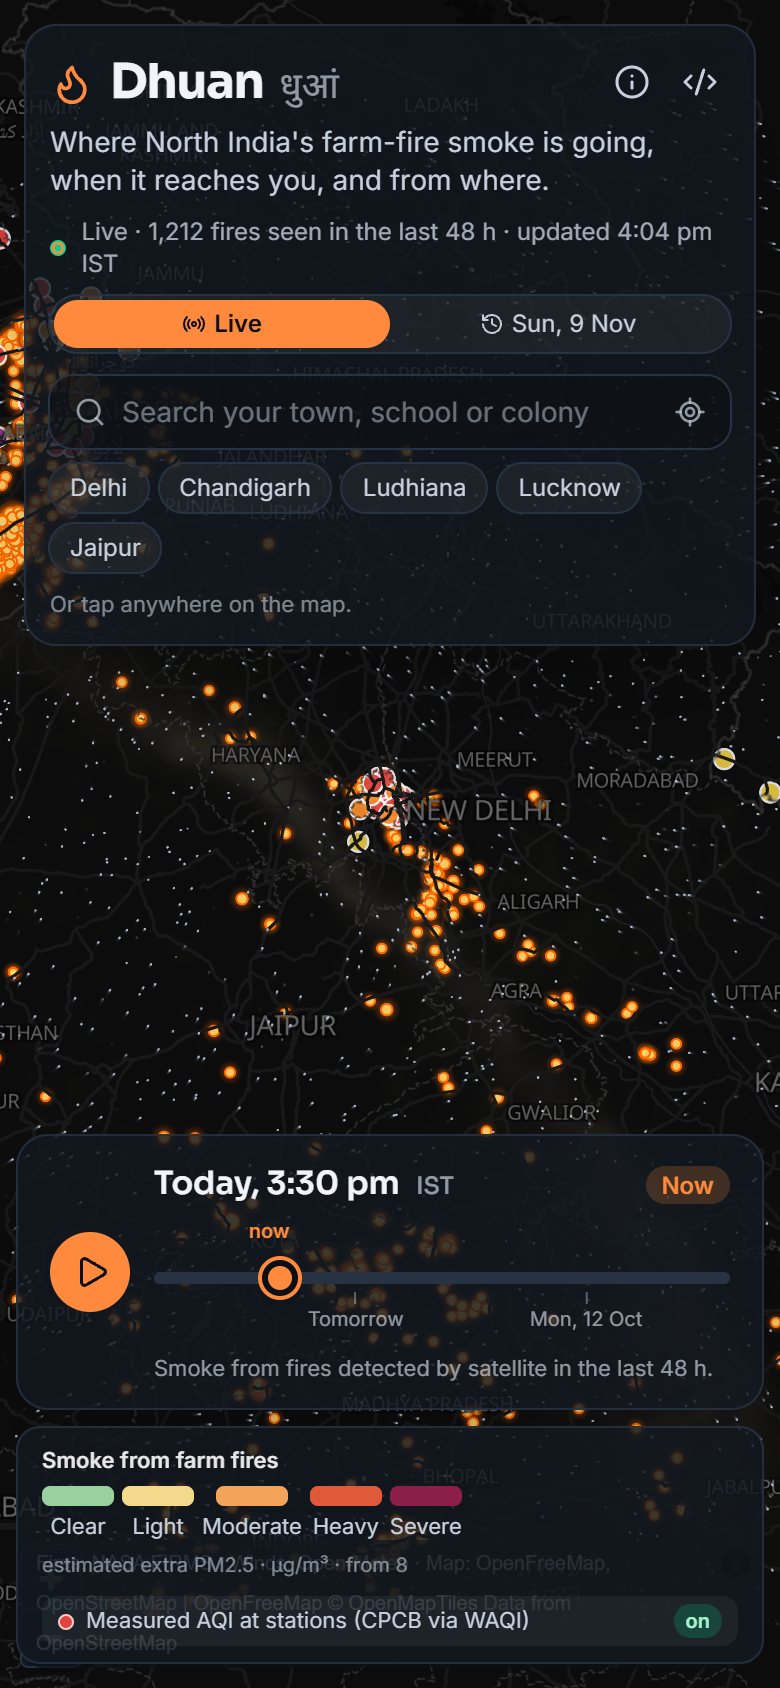
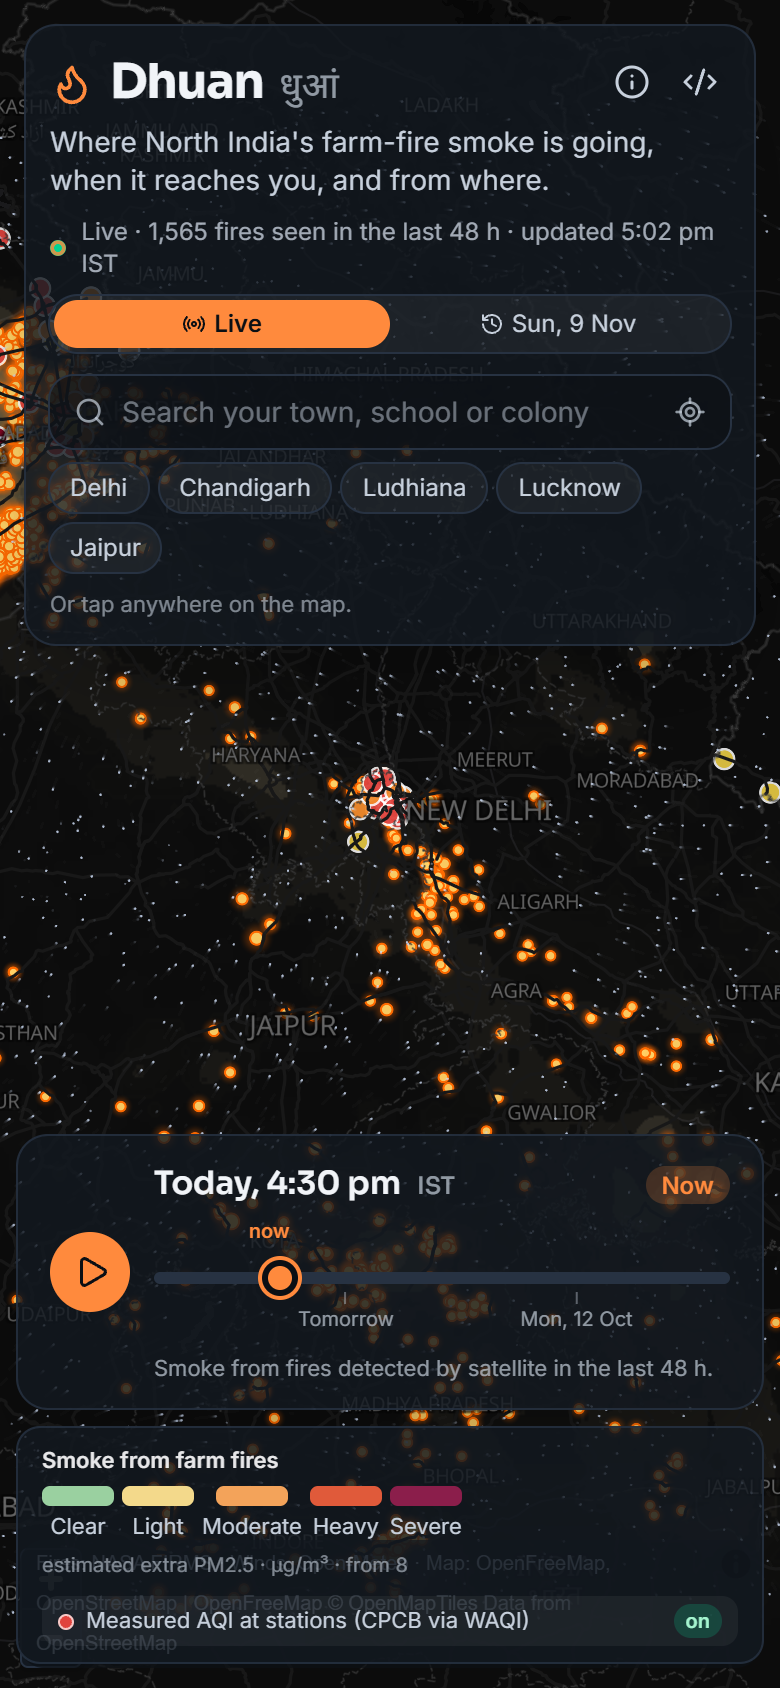
Operations and impact: district exposure, CloudWatch metrics/dashboard/alarms, budget, throttling
- Count Indian districts under moderate/heavy smoke per frame; header outlook and timeline show it
- Custom CloudWatch metrics each run, a dashboard, alarms for failed or stalled runs, a monthly budget (AlertEmail)
- API Gateway throttling and a subscriber cap, since subscribing creates SNS topics
- Loading indicator while the basemap starts; play button labelled

diff --git a/frontend/src/App.tsx b/frontend/src/App.tsx
@@ -7,7 +7,7 @@ import PlacePanel from './components/PlacePanel'
 import Search from './components/Search'
 import SmokeMap from './components/SmokeMap'
 import Timeline from './components/Timeline'
-import { formatCount, istDay, istTime } from './format'
+import { formatCount, istDay, istTime, relativeDay } from './format'
 
 const REPO = 'https://github.com/HitanshGithub/dhuan'
 
@@ -133,6 +133,11 @@ export default function App() {
   return (
     <div className="relative h-full w-full overflow-hidden bg-ink">
       <SmokeMap meta={meta} frame={frame} place={place} onPick={pick} showStations={showStations} onFail={setMapError} onReady={() => setMapReady(true)} />
+      {!mapReady && !mapError && (
+        <div className="glass pointer-events-none absolute left-1/2 top-1/2 z-10 -translate-x-1/2 -translate-y-1/2 rounded-full px-4 py-2 text-sm text-mist">
+          Loading the map…
+        </div>
+      )}
       {mapError && (
         <div className="absolute left-1/2 top-1/2 z-10 w-[min(440px,calc(100%-32px))] -translate-x-1/2 -translate-y-1/2">
           <div className="glass rounded-2xl p-4 text-sm leading-relaxed text-mist shadow-2xl">
@@ -183,6 +188,7 @@ export default function App() {
                 Replay · {istDay(meta.times[meta.now_frame])} · {formatCount(meta.fires.count)} fires in 48 h · archived fires and winds, same model
               </div>
             )}
+            {meta?.exposure && <Outlook meta={meta} onFrame={setFrame} />}
             {metaError && <div className="mt-2 rounded-lg bg-red-500/10 px-2 py-1 text-xs text-red-200">No forecast yet: {metaError}</div>}
             {replays.length > 0 && liveMeta && (
               <div className="mt-2 flex rounded-full bg-white/5 p-0.5 text-xs ring-1 ring-line">
@@ -244,5 +250,31 @@ export default function App() {
 
       {about && <About meta={meta} onClose={() => setAbout(false)} />}
     </div>
+  )
+}
+
+/** The next 24 hours in one line: how many Indian districts sit under moderate or heavy farm-fire smoke, and when. */
+function Outlook({ meta, onFrame }: { meta: RunMeta; onFrame: (f: number) => void }) {
+  const ex = meta.exposure!
+  const peak = ex.next_24h
+  const nowIso = meta.times[meta.now_frame]
+  const when = `${relativeDay(meta.times[peak.frame], nowIso).toLowerCase()} ${istTime(meta.times[peak.frame])}`
+  if (peak.heavy === 0 && peak.moderate === 0) {
+    return <div className="mt-2 text-xs text-mist/70">Next 24 h: no district expected to see moderate or heavy farm-fire smoke.</div>
+  }
+  const worst = peak.districts
+    .slice(0, 3)
+    .map((d) => d.name.split(',')[0])
+    .join(', ')
+  return (
+    <button onClick={() => onFrame(peak.frame)} className="mt-2 flex w-full items-start gap-2 rounded-lg bg-white/5 px-2 py-1.5 text-left text-xs text-mist ring-1 ring-line hover:bg-white/10" title="Jump to that hour">
+      <span className="mt-1 inline-block h-2 w-2 shrink-0 rounded-full" style={{ background: peak.heavy > 0 ? '#e05a3a' : '#f3a35a' }} />
+      <span>
+        <span className="font-semibold text-white">
+          {peak.heavy > 0 ? `Heavy smoke over ${peak.heavy} districts` : `Moderate smoke over ${peak.moderate} districts`}
+        </span>{' '}
+        around {when}{peak.heavy > 0 && peak.moderate > peak.heavy ? `, moderate over ${peak.moderate}` : ''}. Worst: {worst}.
+      </span>
+    </button>
   )
 }

diff --git a/frontend/src/components/Timeline.tsx b/frontend/src/components/Timeline.tsx
@@ -23,17 +23,27 @@ export default function Timeline({ meta, frame, playing, onFrame, onPlay }: Prop
   })
   const pct = (i: number) => `${(i / (n - 1)) * 100}%`
   const assumed = isFuture && frame - meta.now_frame > 12 && meta.fires.assumed_repeat > 0
+  const ex = meta.exposure?.frames[frame]
+  const exposureText = !ex || (ex.heavy === 0 && ex.moderate === 0)
+    ? null
+    : ex.heavy > 0
+      ? `Heavy smoke over ${ex.heavy} district${ex.heavy === 1 ? '' : 's'}${ex.moderate > ex.heavy ? `, moderate over ${ex.moderate}` : ''}`
+      : `Moderate smoke over ${ex.moderate} district${ex.moderate === 1 ? '' : 's'}`
 
   return (
     <div className="glass rounded-2xl px-4 pt-3 pb-3 shadow-2xl">
       <div className="flex items-center gap-3">
-        <button
-          onClick={() => onPlay(!playing)}
-          className="grid h-10 w-10 shrink-0 place-items-center rounded-full bg-ember text-ink transition hover:brightness-110 active:scale-95"
-          aria-label={playing ? 'Pause' : 'Play the next 48 hours'}
-        >
-          {playing ? <Pause size={18} /> : <Play size={18} className="ml-0.5" />}
-        </button>
+        <div className="flex shrink-0 flex-col items-center">
+          <button
+            onClick={() => onPlay(!playing)}
+            className="grid h-10 w-10 place-items-center rounded-full bg-ember text-ink transition hover:brightness-110 active:scale-95"
+            aria-label={playing ? 'Pause' : 'Play the next 48 hours'}
+            title={playing ? 'Pause' : 'Play the next 48 hours'}
+          >
+            {playing ? <Pause size={18} /> : <Play size={18} className="ml-0.5" />}
+          </button>
+          <span className="mt-1 text-[10px] text-mist/60">{playing ? 'pause' : 'play 48 h'}</span>
+        </div>
         <div className="min-w-0 flex-1">
           <div className="flex items-baseline justify-between gap-2">
             <div className="truncate font-display text-base font-semibold sm:text-lg">
@@ -50,6 +60,12 @@ export default function Timeline({ meta, frame, playing, onFrame, onPlay }: Prop
               )}
             </div>
           </div>
+          {exposureText && (
+            <div className="mt-0.5 flex items-center gap-1.5 text-xs text-mist">
+              <span className="inline-block h-2 w-2 rounded-full" style={{ background: ex!.heavy > 0 ? '#e05a3a' : '#f3a35a' }} />
+              {exposureText}
+            </div>
+          )}
           <div className="relative mt-5">
             <span className="pointer-events-none absolute -top-4 -translate-x-1/2 text-[10px] font-semibold text-ember" style={{ left: pct(meta.now_frame) }}>
               now

diff --git a/frontend/src/api.ts b/frontend/src/api.ts
@@ -26,6 +26,11 @@ export interface RunMeta {
   sources: Record<string, string | null>
   has_stations?: boolean
   replay?: { date: string; title: string } | null
+  exposure?: {
+    frames: { heavy: number; moderate: number }[]
+    next_24h: { frame: number; heavy: number; moderate: number; districts: { name: string; ug: number }[] }
+    thresholds: { moderate: number; heavy: number }
+  }
 }
 
 export interface Replay {

diff --git a/backend/dhuan/run.py b/backend/dhuan/run.py
@@ -106,6 +106,7 @@ def step_simulate(run_id: str, store=None, now: datetime | None = None, set_late
     for f in fires:
         state = districts.names[f.district]["state"] if f.district >= 0 else "Outside India"
         by_state[state] = by_state.get(state, 0) + 1
+    exposed = exposure(ug, districts, sim.now_frame)
     meta = {
         "run_id": run_id,
         "generated_at": datetime.now(timezone.utc).isoformat(timespec="seconds"),
@@ -117,6 +118,7 @@ def step_simulate(run_id: str, store=None, now: datetime | None = None, set_late
                   "window": settings.firms_window},
         "parcels": sim.n_parcels,
         "frame_max_ug": [round(float(ug[i].max()), 1) for i in range(len(sim.times))],
+        "exposure": exposed,
         "bands": bands(),
         "ug_per_unit": UG_PER_UNIT,
         "seconds": round(time.time() - t0, 1),
@@ -133,7 +135,61 @@ def step_simulate(run_id: str, store=None, now: datetime | None = None, set_late
     if set_latest:
         put_json(store, "latest.json", {"run_id": run_id, "generated_at": meta["generated_at"], "fires": len(fires), "times": meta["times"],
                                         "now_frame": sim.now_frame, "frame_max_ug": meta["frame_max_ug"]})
-    return {"run_id": run_id, "fires": len(fires), "parcels": sim.n_parcels, "frames": len(sim.times), "seconds": meta["seconds"]}
+        publish_metrics(meta, len(districts.names))
+    return {"run_id": run_id, "fires": len(fires), "parcels": sim.n_parcels, "frames": len(sim.times), "seconds": meta["seconds"],
+            "heavy_districts_24h": exposed["next_24h"]["heavy"]}
+
+
+def exposure(ug: np.ndarray, districts: geo.Districts, now_frame: int) -> dict:
+    """How many Indian districts sit under moderate (>= 25 ug/m3) or heavy (>= 50) smoke, frame by frame.
+
+    The district raster covers India only, so Pakistan's Punjab is not counted. 'Under smoke' means the district's
+    mean estimated farm-fire PM2.5 crosses the band, which understates small hot spots and is deliberately conservative.
+    """
+    from .calibrate import BANDS
+
+    moderate_from = next(b[0] for b in BANDS if b[1] == "moderate")
+    heavy_from = next(b[0] for b in BANDS if b[1] == "heavy")
+    mask = districts.grid >= 0
+    ids = districts.grid[mask].astype(np.int64)
+    n = len(districts.names)
+    counts = np.maximum(np.bincount(ids, minlength=n), 1)
+    means = np.stack([np.bincount(ids, weights=ug[f][mask].astype(np.float64), minlength=n) / counts for f in range(ug.shape[0])])
+    heavy = (means >= heavy_from).sum(axis=1)
+    moderate = (means >= moderate_from).sum(axis=1)
+    ahead = slice(now_frame, min(now_frame + 25, ug.shape[0]))
+    score = heavy[ahead] * 1000 + moderate[ahead]
+    peak = now_frame + int(np.argmax(score))
+    worst = [int(i) for i in np.argsort(-means[peak]) if means[peak][i] >= moderate_from][:8]
+    return {
+        "frames": [{"heavy": int(h), "moderate": int(m)} for h, m in zip(heavy, moderate)],
+        "next_24h": {"frame": peak, "heavy": int(heavy[peak]), "moderate": int(moderate[peak]),
+                     "districts": [{"name": districts.label(i), "ug": round(float(means[peak][i]), 1)} for i in worst]},
+        "thresholds": {"moderate": moderate_from, "heavy": heavy_from},
+    }
+
+
+def publish_metrics(meta: dict, n_districts: int) -> None:
+    """Operational metrics for the CloudWatch dashboard and alarms; only when deployed, and never fatal."""
+    if settings.storage != "s3":
+        return
+    try:
+        import boto3
+
+        now_i = meta["now_frame"]
+        data = [
+            ("FiresDetected", meta["fires"]["count"], "Count"),
+            ("Parcels", meta["parcels"], "Count"),
+            ("SimulateSeconds", meta["seconds"], "Seconds"),
+            ("MaxUgNow", meta["frame_max_ug"][now_i], "None"),
+            ("DistrictsHeavy24h", meta["exposure"]["next_24h"]["heavy"], "Count"),
+            ("DistrictsModerate24h", meta["exposure"]["next_24h"]["moderate"], "Count"),
+            ("StationsObserved", int(meta.get("has_stations", False)) and len(get_json(storage(), f"runs/{meta['run_id']}/stations.geojson").get("features", [])), "Count"),
+        ]
+        boto3.client("cloudwatch", region_name=settings.region).put_metric_data(
+            Namespace="Dhuan", MetricData=[{"MetricName": name, "Value": float(value), "Unit": unit} for name, value, unit in data])
+    except Exception:
+        log.exception("could not publish metrics")
 
 
 def main(argv: list[str]) -> None:

diff --git a/backend/dhuan/alerts.py b/backend/dhuan/alerts.py
@@ -18,6 +18,7 @@ from .storage import storage
 
 log = logging.getLogger(__name__)
 ALERT_FROM = "moderate"  # tell people when at least this band is coming
+MAX_SUBSCRIBERS = 500  # each subscriber is an SNS topic; an open endpoint must not be able to create them without limit
 ALERT_WINDOW_FRAMES = 36  # hours ahead worth warning about
 RENOTIFY_HOURS = 18
 BAND_ORDER = ["clear", "light", "moderate", "heavy", "severe"]
@@ -130,6 +131,10 @@ def repo():
 SAME_PLACE_DEG = 0.15  # about 15 km: the same person tapping "Delhi" twice lands 9 km apart and means the same subscription
 
 
+class SubscriptionsFull(Exception):
+    """The demo deployment's subscriber cap has been reached."""
+
+
 def _same_place(subs: list[dict], lat: float, lon: float) -> list[dict]:
     return [s for s in subs if abs(s["lat"] - lat) < SAME_PLACE_DEG and abs(s["lon"] - lon) < SAME_PLACE_DEG]
 
@@ -148,6 +153,8 @@ def subscribe(email: str, lat: float, lon: float, label: str, language: str) -> 
         r.resend_confirmation(existing)
         return {"id": existing["id"], "status": "pending_confirmation",
                 "note": "You subscribed for this place before but never confirmed. We have sent the confirmation email again."}
+    if len(r.all()) >= MAX_SUBSCRIBERS:
+        raise SubscriptionsFull()
     sub = {"id": uuid.uuid4().hex[:10], "email": email, "lat": lat, "lon": lon, "label": label.strip()[:80], "language": language,
            "created_at": datetime.now(timezone.utc).isoformat(timespec="seconds"), "last_alert_at": None, "last_alert_band": None}
     if isinstance(r, AwsSubscribers):

diff --git a/backend/dhuan/api.py b/backend/dhuan/api.py
@@ -78,7 +78,10 @@ class Subscription(BaseModel):
 def subscribe(sub: Subscription):
     from . import alerts
 
-    return alerts.subscribe(sub.email, sub.lat, sub.lon, sub.label, sub.language)
+    try:
+        return alerts.subscribe(sub.email, sub.lat, sub.lon, sub.label, sub.language)
+    except alerts.SubscriptionsFull:
+        raise HTTPException(429, "This demo deployment has reached its subscriber limit. Please try again later.")
 
 
 @app.post("/api/subscribe/{sub_id}/preview")
